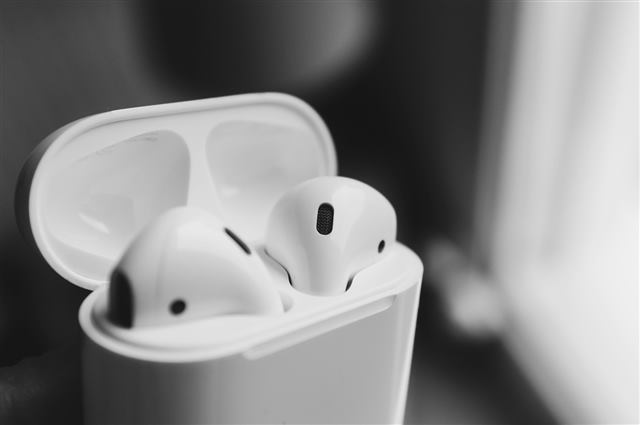
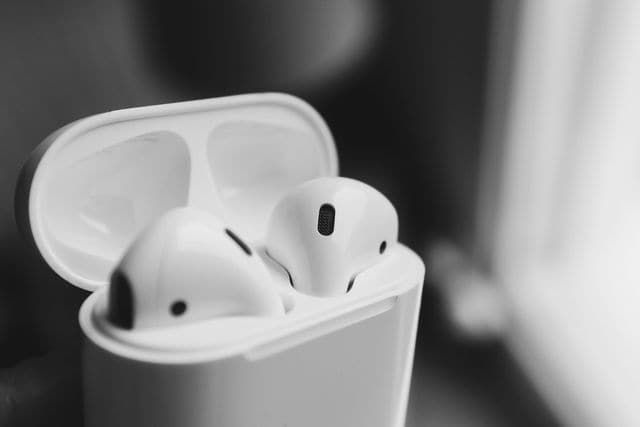
Phone-repair imagery per repair type, workshop photo, precision close-up, consistent product shots; contained hero; WebP

diff --git a/index.html b/index.html
@@ -10,8 +10,8 @@
 <meta property="og:description" content="Phone, tablet and laptop repairs in Gore. Free diagnosis and a clear quote before any repair begins.">
 <link rel="icon" href="assets/icon-512.png" type="image/png">
 <link rel="apple-touch-icon" href="assets/icon-512.png">
-<link rel="preload" as="image" href="assets/img3/herobg-900.jpg" imagesrcset="assets/img3/herobg-900.jpg 900w, assets/img3/herobg-1600.jpg 1600w" imagesizes="100vw" fetchpriority="high">
-<link rel="stylesheet" href="style.css?v=muz8i92z">
+<link rel="preload" as="image" type="image/webp" imagesrcset="assets/img3/hero-900.webp 900w, assets/img3/hero-1600.webp 1600w" imagesizes="(min-width: 1240px) 1200px, calc(100vw - 40px)" fetchpriority="high">
+<link rel="stylesheet" href="style.css?v=muz96r61">
 <script>document.documentElement.classList.add('js');setTimeout(function(){if(!window.__mw)document.documentElement.classList.remove('js')},3500)</script>
 </head>
 <body>
@@ -38,21 +38,23 @@
 
 <!-- 1. HERO -->
 <section class="hero">
- <img class="hero-bg" src="assets/img3/herobg-1600.jpg" srcset="assets/img3/herobg-900.jpg 900w, assets/img3/herobg-1600.jpg 1600w" sizes="100vw" width="1600" height="1066" alt="A technician repairing a phone with a precision screwdriver" fetchpriority="high">
- <div class="wrap hero-in">
-  <div class="hero-text">
-   <p class="eyebrow rv">Mobile World Gore</p>
-   <h1 class="rv d1">Expert device repair, right here in&nbsp;Gore.</h1>
-   <p class="lede rv d2">Phone, tablet and laptop repairs, with free diagnosis and a clear quote before any repair begins.</p>
-   <p class="actions rv d3">
-    <a class="btn" href="#visit">Get a free diagnosis</a>
-    <a class="btn btn-line btn-line-light" href="https://www.google.com/maps/dir/?api=1&destination=57+Main+Street,+Gore,+New+Zealand" target="_blank" rel="noopener">Get directions</a>
-   </p>
-   <ul class="facts rv d4">
-    <li><strong>Free diagnosis</strong><span>We find the fault before any work starts</span></li>
-    <li><strong>Same-day</strong><span>repairs on most common jobs</span></li>
-    <li><strong>No appointment</strong><span>Just walk in at 57 Main Street</span></li>
-   </ul>
+ <div class="wrap">
+  <div class="hero-panel">
+   <picture><source type="image/webp" srcset="assets/img3/hero-900.webp 900w, assets/img3/hero-1600.webp 1600w" sizes="(min-width: 1240px) 1200px, calc(100vw - 40px)"><img class="hero-bg" src="assets/img3/hero-1600.jpg" srcset="assets/img3/hero-900.jpg 900w, assets/img3/hero-1600.jpg 1600w" sizes="(min-width: 1240px) 1200px, calc(100vw - 40px)" width="1600" height="1067" alt="Technician repairing a smartphone with a precision screwdriver" fetchpriority="high"></picture>
+   <div class="hero-text">
+    <p class="eyebrow rv">Mobile World Gore</p>
+    <h1 class="rv d1">Expert device repair, right here in&nbsp;Gore.</h1>
+    <p class="lede rv d2">Phone, tablet and laptop repairs, with free diagnosis and a clear quote before any repair begins.</p>
+    <p class="actions rv d3">
+     <a class="btn" href="#visit">Get a free diagnosis</a>
+     <a class="btn btn-line btn-line-light" href="https://www.google.com/maps/dir/?api=1&destination=57+Main+Street,+Gore,+New+Zealand" target="_blank" rel="noopener">Get directions</a>
+    </p>
+    <ul class="facts rv d4">
+     <li><strong>Free diagnosis</strong><span>We find the fault before any work starts</span></li>
+     <li><strong>Same-day</strong><span>repairs on most common jobs</span></li>
+     <li><strong>No appointment</strong><span>Just walk in at 57 Main Street</span></li>
+    </ul>
+   </div>
   </div>
  </div>
 </section>
@@ -76,7 +78,7 @@
      <h2 class="rv">Repairs made simple.</h2>
      <p class="big rv d1">Bring your device in. We’ll find out what’s wrong, explain your options and give you a clear quote before any repair begins.</p>
     </div>
-    <img class="simple-img rv d2" src="assets/img3/laptop-s-480.jpg" srcset="assets/img3/laptop-s-480.jpg 480w, assets/img3/laptop-s-800.jpg 800w" sizes="(min-width: 900px) 470px, calc(100vw - 40px)" width="800" height="533" alt="A technician repairing a laptop" loading="lazy">
+    <picture><source type="image/webp" srcset="assets/img3/workshop-480.webp 480w, assets/img3/workshop-800.webp 800w" sizes="(min-width: 900px) 470px, calc(100vw - 40px)"><img class="simple-img rv d2" src="assets/img3/workshop-480.jpg" srcset="assets/img3/workshop-480.jpg 480w, assets/img3/workshop-800.jpg 800w" sizes="(min-width: 900px) 470px, calc(100vw - 40px)" width="800" height="533" alt="A technician repairing a smartphone at a workbench" loading="lazy"></picture>
    </div>
    <ul class="simple-points">
     <li class="rv"><strong>Free diagnosis</strong><span>Know what’s wrong before you decide anything.</span></li>
@@ -94,15 +96,15 @@
   <h2 class="sec-title rv d1">What we repair.</h2>
   <div class="devices">
    <article class="device rv">
-    <h3>Smartphones</h3>
+    <h3><svg class="dev-ic" viewBox="0 0 24 24" aria-hidden="true"><rect x="7" y="2.5" width="10" height="19" rx="2.4"/><path d="M10.5 18.5h3"/></svg><span>Smartphones</span></h3>
     <ul><li>Screens</li><li>Batteries</li><li>Charging</li><li>Water damage</li></ul>
    </article>
    <article class="device rv">
-    <h3>Tablets &amp; iPads</h3>
+    <h3><svg class="dev-ic" viewBox="0 0 24 24" aria-hidden="true"><rect x="4" y="2.5" width="16" height="19" rx="2.4"/><path d="M11 18.5h2"/></svg><span>Tablets &amp; iPads</span></h3>
     <ul><li>Displays</li><li>Batteries</li><li>Charging</li><li>Software</li></ul>
    </article>
    <article class="device rv">
-    <h3>Laptops &amp; Ultrabooks</h3>
+    <h3><svg class="dev-ic" viewBox="0 0 24 24" aria-hidden="true"><rect x="4.5" y="4.5" width="15" height="10.5" rx="1.6"/><path d="M2.5 18.5h19l-1.4 1.6H3.9z"/></svg><span>Laptops &amp; Ultrabooks</span></h3>
     <ul><li>Hardware</li><li>Software</li><li>Performance</li></ul>
    </article>
   </div>
@@ -114,13 +116,13 @@
  <div class="wrap">
   <p class="eyebrow rv">Common repairs</p>
   <h2 class="sec-title rv d1">Repairs we handle every day.</h2>
-  <ol class="problems">
-   <li class="rv"><span class="no">01</span><h3>Cracked screen</h3><p>Broken glass, display issues or touch problems.</p></li>
-   <li class="rv d1"><span class="no">02</span><h3>Battery</h3><p>Fast drain, poor battery life or unexpected shutdowns.</p></li>
-   <li class="rv d2"><span class="no">03</span><h3>Charging</h3><p>Charging port, cable connection or charging problems.</p></li>
-   <li class="rv"><span class="no">04</span><h3>Water damage</h3><p>We’ll assess the device and explain what can be done.</p></li>
-   <li class="rv d1"><span class="no">05</span><h3>Audio</h3><p>Speaker, microphone and sound issues.</p></li>
-   <li class="rv d2"><span class="no">06</span><h3>Software</h3><p>Slow, frozen or glitchy? We’ll find the cause.</p></li>
+  <ol class="problems problems-img">
+   <li class="rv "><picture><source type="image/webp" srcset="assets/img3/rep-screen-160.webp 160w, assets/img3/rep-screen-320.webp 320w" sizes="(min-width: 701px) 76px, 64px"><img src="assets/img3/rep-screen-160.jpg" srcset="assets/img3/rep-screen-160.jpg 160w, assets/img3/rep-screen-320.jpg 320w" sizes="(min-width: 701px) 76px, 64px" width="320" height="320" alt="A phone with a cracked screen" loading="lazy"></picture><div class="pb"><span class="no">01</span><h3>Cracked screen</h3><p>Broken glass, display issues or touch problems.</p></div></li>
+   <li class="rv d1"><picture><source type="image/webp" srcset="assets/img3/rep-battery-160.webp 160w, assets/img3/rep-battery-320.webp 320w" sizes="(min-width: 701px) 76px, 64px"><img src="assets/img3/rep-battery-160.jpg" srcset="assets/img3/rep-battery-160.jpg 160w, assets/img3/rep-battery-320.jpg 320w" sizes="(min-width: 701px) 76px, 64px" width="320" height="320" alt="A phone battery replacement" loading="lazy"></picture><div class="pb"><span class="no">02</span><h3>Battery</h3><p>Fast drain, poor battery life or unexpected shutdowns.</p></div></li>
+   <li class="rv d2"><picture><source type="image/webp" srcset="assets/img3/rep-charging-160.webp 160w, assets/img3/rep-charging-320.webp 320w" sizes="(min-width: 701px) 76px, 64px"><img src="assets/img3/rep-charging-160.jpg" srcset="assets/img3/rep-charging-160.jpg 160w, assets/img3/rep-charging-320.jpg 320w" sizes="(min-width: 701px) 76px, 64px" width="320" height="320" alt="A phone charging port and cable" loading="lazy"></picture><div class="pb"><span class="no">03</span><h3>Charging</h3><p>Charging port, cable connection or charging problems.</p></div></li>
+   <li class="rv "><picture><source type="image/webp" srcset="assets/img3/rep-water-160.webp 160w, assets/img3/rep-water-320.webp 320w" sizes="(min-width: 701px) 76px, 64px"><img src="assets/img3/rep-water-160.jpg" srcset="assets/img3/rep-water-160.jpg 160w, assets/img3/rep-water-320.jpg 320w" sizes="(min-width: 701px) 76px, 64px" width="320" height="320" alt="A wet, water-damaged phone" loading="lazy"></picture><div class="pb"><span class="no">04</span><h3>Water damage</h3><p>We’ll assess the device and explain what can be done.</p></div></li>
+   <li class="rv d1"><picture><source type="image/webp" srcset="assets/img3/rep-audio-160.webp 160w, assets/img3/rep-audio-320.webp 320w" sizes="(min-width: 701px) 76px, 64px"><img src="assets/img3/rep-audio-160.jpg" srcset="assets/img3/rep-audio-160.jpg 160w, assets/img3/rep-audio-320.jpg 320w" sizes="(min-width: 701px) 76px, 64px" width="320" height="320" alt="A phone speaker and microphone" loading="lazy"></picture><div class="pb"><span class="no">05</span><h3>Audio</h3><p>Speaker, microphone and sound issues.</p></div></li>
+   <li class="rv d2"><picture><source type="image/webp" srcset="assets/img3/rep-software-160.webp 160w, assets/img3/rep-software-320.webp 320w" sizes="(min-width: 701px) 76px, 64px"><img src="assets/img3/rep-software-160.jpg" srcset="assets/img3/rep-software-160.jpg 160w, assets/img3/rep-software-320.jpg 320w" sizes="(min-width: 701px) 76px, 64px" width="320" height="320" alt="A phone software update screen" loading="lazy"></picture><div class="pb"><span class="no">06</span><h3>Software</h3><p>Slow, frozen or glitchy? We’ll find the cause.</p></div></li>
   </ol>
   <p class="note rv">Not sure what’s wrong? <a class="more" href="#visit">Bring it in for a free diagnosis</a></p>
  </div>
@@ -128,7 +130,6 @@
 
 <!-- 5. BRAND STATEMENT -->
 <section class="statement">
- <img class="bg-img" src="assets/img3/moodbg-1600.jpg" srcset="assets/img3/moodbg-900.jpg 900w, assets/img3/moodbg-1600.jpg 1600w" sizes="100vw" width="900" height="1350" alt="" loading="lazy">
  <div class="wrap narrow st-in">
   <h2 class="rv">Your device is part of your <span>everyday life.</span></h2>
   <p class="big rv d1">We know how important it is to have your phone, tablet or laptop working when you need it. That’s why we keep the process simple: diagnose the problem, explain the options, and let you decide.</p>
@@ -144,7 +145,7 @@
     <p class="eyebrow rv">How it works</p>
     <h2 class="sec-title rv d1">From broken to ready.</h2>
    </div>
-   <img class="process-img rv d2" src="assets/img3/battery-480.jpg" srcset="assets/img3/battery-480.jpg 480w, assets/img3/battery-800.jpg 800w" sizes="(min-width: 900px) 420px, calc(100vw - 40px)" width="800" height="533" alt="Hands working on a phone’s internal components" loading="lazy">
+   <picture><source type="image/webp" srcset="assets/img3/process-480.webp 480w, assets/img3/process-800.webp 800w" sizes="(min-width: 900px) 420px, calc(100vw - 40px)"><img class="process-img rv d2" src="assets/img3/process-480.jpg" srcset="assets/img3/process-480.jpg 480w, assets/img3/process-800.jpg 800w" sizes="(min-width: 900px) 420px, calc(100vw - 40px)" width="800" height="533" alt="Hands repairing a smartphone logic board" loading="lazy"></picture>
   </div>
   <ol class="steps">
    <li class="rv"><span class="n">01</span><h3>Diagnose</h3><p>Walk in and we’ll find the fault. It’s free.</p></li>
@@ -162,7 +163,7 @@
    <p class="eyebrow rv">Why choose us</p>
    <h2 class="rv d1">No guesswork. Just clear answers.</h2>
    <p class="big rv d2">We diagnose the problem first, explain your options and give you a clear quote before any repair begins. You decide whether to go ahead.</p>
-   <img class="why-img rv d2" src="assets/img3/tech-480.jpg" srcset="assets/img3/tech-480.jpg 480w, assets/img3/tech-840.jpg 840w" sizes="(min-width: 900px) 380px, calc(100vw - 40px)" width="480" height="720" alt="A repair technician at his workbench" loading="lazy">
+   <picture><source type="image/webp" srcset="assets/img3/why-480.webp 480w, assets/img3/why-800.webp 800w" sizes="(min-width: 900px) 380px, calc(100vw - 40px)"><img class="why-img rv d2" src="assets/img3/why-480.jpg" srcset="assets/img3/why-480.jpg 480w, assets/img3/why-800.jpg 800w" sizes="(min-width: 900px) 380px, calc(100vw - 40px)" width="800" height="1000" alt="Tweezers placing a tiny component on a smartphone logic board" loading="lazy"></picture>
   </div>
   <ul class="why-list">
    <li class="rv"><span class="no">01</span><div><h3>Free diagnosis</h3><p>Understand what’s wrong before deciding.</p></div></li>
@@ -182,12 +183,12 @@
   <h2 class="sec-title rv d1">Accessories.</h2>
   <p class="sec-lede rv d1">Cases, cables and audio, matched to your device.</p>
   <ul class="gear">
-   <li class="rv"><img src="assets/img3/cases-320.jpg" srcset="assets/img3/cases-320.jpg 320w, assets/img3/cases-640.jpg 640w" sizes="(min-width: 900px) 360px, 45vw" width="640" height="427" alt="Phone cases" loading="lazy"><h3>Cases</h3><p>Slim, rugged and wallet styles.</p></li>
-   <li class="rv d1"><img src="assets/img3/cable-320.jpg" srcset="assets/img3/cable-320.jpg 320w, assets/img3/cable-640.jpg 640w" sizes="(min-width: 900px) 360px, 45vw" width="640" height="427" alt="Charging cable" loading="lazy"><h3>Charging cables</h3><p>USB-C, Lightning and micro-USB.</p></li>
-   <li class="rv d2"><img src="assets/img3/headphones-320.jpg" srcset="assets/img3/headphones-320.jpg 320w, assets/img3/headphones-640.jpg 640w" sizes="(min-width: 900px) 360px, 45vw" width="640" height="427" alt="Over-ear headphones" loading="lazy"><h3>Headphones</h3><p>Over-ear sound for home, study and travel.</p></li>
-   <li class="rv"><img src="assets/img3/earbuds-320.jpg" srcset="assets/img3/earbuds-320.jpg 320w, assets/img3/earbuds-640.jpg 640w" sizes="(min-width: 900px) 360px, 45vw" width="640" height="427" alt="Wireless earbuds in a case" loading="lazy"><h3>Earbuds</h3><p>Wireless and wired, for calls and music.</p></li>
-   <li class="rv d1"><img src="assets/img3/speaker-320.jpg" srcset="assets/img3/speaker-320.jpg 320w, assets/img3/speaker-640.jpg 640w" sizes="(min-width: 900px) 360px, 45vw" width="640" height="427" alt="Bluetooth speaker" loading="lazy"><h3>Bluetooth speakers</h3><p>Portable sound that goes where you do.</p></li>
-   <li class="rv d2"><img src="assets/img3/watch-320.jpg" srcset="assets/img3/watch-320.jpg 320w, assets/img3/watch-640.jpg 640w" sizes="(min-width: 900px) 360px, 45vw" width="640" height="427" alt="Smart watch on a wrist" loading="lazy"><h3>Smart watches</h3><p>Wearable tech for everyday use.</p></li>
+   <li class="rv"><picture><source type="image/webp" srcset="assets/img3/cases-320.webp 320w, assets/img3/cases-640.webp 640w" sizes="(min-width: 900px) 360px, 45vw"><img src="assets/img3/cases-320.jpg" srcset="assets/img3/cases-320.jpg 320w, assets/img3/cases-640.jpg 640w" sizes="(min-width: 900px) 360px, 45vw" width="640" height="427" alt="Phone cases" loading="lazy"></picture><h3>Cases</h3><p>Slim, rugged and wallet styles.</p></li>
+   <li class="rv d1"><picture><source type="image/webp" srcset="assets/img3/cable-320.webp 320w, assets/img3/cable-640.webp 640w" sizes="(min-width: 900px) 360px, 45vw"><img src="assets/img3/cable-320.jpg" srcset="assets/img3/cable-320.jpg 320w, assets/img3/cable-640.jpg 640w" sizes="(min-width: 900px) 360px, 45vw" width="640" height="427" alt="Charging cable" loading="lazy"></picture><h3>Charging cables</h3><p>USB-C, Lightning and micro-USB.</p></li>
+   <li class="rv d2"><picture><source type="image/webp" srcset="assets/img3/headphones-320.webp 320w, assets/img3/headphones-640.webp 640w" sizes="(min-width: 900px) 360px, 45vw"><img src="assets/img3/headphones-320.jpg" srcset="assets/img3/headphones-320.jpg 320w, assets/img3/headphones-640.jpg 640w" sizes="(min-width: 900px) 360px, 45vw" width="640" height="427" alt="Over-ear headphones" loading="lazy"></picture><h3>Headphones</h3><p>Over-ear sound for home, study and travel.</p></li>
+   <li class="rv"><picture><source type="image/webp" srcset="assets/img3/earbuds-320.webp 320w, assets/img3/earbuds-640.webp 640w" sizes="(min-width: 900px) 360px, 45vw"><img src="assets/img3/earbuds-320.jpg" srcset="assets/img3/earbuds-320.jpg 320w, assets/img3/earbuds-640.jpg 640w" sizes="(min-width: 900px) 360px, 45vw" width="640" height="427" alt="Wireless earbuds in a case" loading="lazy"></picture><h3>Earbuds</h3><p>Wireless and wired, for calls and music.</p></li>
+   <li class="rv d1"><picture><source type="image/webp" srcset="assets/img3/speaker-320.webp 320w, assets/img3/speaker-640.webp 640w" sizes="(min-width: 900px) 360px, 45vw"><img src="assets/img3/speaker-320.jpg" srcset="assets/img3/speaker-320.jpg 320w, assets/img3/speaker-640.jpg 640w" sizes="(min-width: 900px) 360px, 45vw" width="640" height="427" alt="A black portable Bluetooth speaker" loading="lazy"></picture><h3>Bluetooth speakers</h3><p>Portable sound that goes where you do.</p></li>
+   <li class="rv d2"><picture><source type="image/webp" srcset="assets/img3/watch-320.webp 320w, assets/img3/watch-640.webp 640w" sizes="(min-width: 900px) 360px, 45vw"><img src="assets/img3/watch-320.jpg" srcset="assets/img3/watch-320.jpg 320w, assets/img3/watch-640.jpg 640w" sizes="(min-width: 900px) 360px, 45vw" width="640" height="427" alt="A black smartwatch" loading="lazy"></picture><h3>Smart watches</h3><p>Wearable tech for everyday use.</p></li>
   </ul>
  </div>
 </section>
@@ -256,7 +257,6 @@
 
 <!-- 12. FINAL CTA -->
 <section class="cta">
- <img class="bg-img" src="assets/img3/ctabg-1600.jpg" srcset="assets/img3/ctabg-900.jpg 900w, assets/img3/ctabg-1600.jpg 1600w" sizes="100vw" width="1600" height="1200" alt="" loading="lazy">
  <div class="wrap narrow cta-in">
   <h2 class="rv">Need a repair?</h2>
   <p class="big rv d1">Bring your device in.<br>We’ll take a look.</p>
@@ -282,6 +282,6 @@
  </div>
 </footer>
 
-<script src="script.js?v=muz8i92z"></script>
+<script src="script.js?v=muz96r61"></script>
 </body>
 </html>

diff --git a/style.css b/style.css
@@ -347,3 +347,76 @@ h1,h2,h3{font-weight:600;letter-spacing:-.03em;line-height:1.07;text-wrap:balanc
 }
 .statement::before{background:linear-gradient(180deg,rgba(10,10,12,.8),rgba(10,10,12,.76))}
 .statement h2 span{color:#d1d1d6}
+
+/* repairs we handle every day — with controlled photos */
+.problems-img li{padding:0 0 30px;border-top:0;border-radius:0}
+.problems-img li:hover{background:transparent;box-shadow:none}
+.problems-img{row-gap:44px}
+.problems-img img{width:100%;aspect-ratio:3/2;object-fit:cover;border-radius:18px;background:#e8e8ed;transition:transform .6s var(--ease)}
+.problems-img li{overflow:visible}
+.problems-img li:hover img{transform:scale(1.02)}
+.problems-img .pb{border-top:1px solid var(--ink);margin-top:22px;padding-top:18px;display:grid;grid-template-columns:auto 1fr;column-gap:16px;align-items:baseline}
+.problems-img .no{font-size:1rem;margin:0;color:var(--red-ink);grid-row:span 2}
+.problems-img li:hover .no{color:var(--red)}
+.problems-img h3{font-size:1.4375rem;margin-bottom:6px}
+@media(max-width:700px){
+ .problems-img{row-gap:0}
+ .problems-img li{display:grid;grid-template-columns:96px 1fr;column-gap:16px;align-items:center;padding:18px 0;border-top:1px solid var(--line)}
+ .problems-img li:last-child{border-bottom:1px solid var(--line)}
+ .problems-img img{width:96px;height:96px;aspect-ratio:1;border-radius:14px}
+ .problems-img .pb{border-top:0;margin:0;padding:0;grid-template-columns:1fr}
+ .problems-img .no{grid-row:auto;font-size:.8125rem;margin-bottom:2px}
+ .problems-img h3{font-size:1.1875rem;margin-bottom:2px}
+ .problems-img p{font-size:.9375rem}
+}
+
+/* ===== imagery pass ===== */
+picture{display:contents}
+
+/* hero: contained rounded panel, photo inside, text on the photo */
+.hero{background:#fff;color:#fff;min-height:0;display:block;overflow:visible;isolation:auto;padding:calc(52px + 20px) 0 clamp(24px,4vw,44px)}
+.hero::before{display:none}
+.hero-panel{position:relative;isolation:isolate;overflow:hidden;border-radius:28px;background:#111;min-height:clamp(520px,64vh,640px);display:flex;align-items:center;padding:clamp(40px,6vw,76px)}
+.hero-panel::before{content:"";position:absolute;inset:0;z-index:-1;background:linear-gradient(90deg,rgba(8,8,10,.86) 0%,rgba(8,8,10,.68) 40%,rgba(8,8,10,.24) 76%,rgba(8,8,10,.1) 100%)}
+.hero-bg{z-index:-2}
+.hero-text{max-width:600px}
+
+/* statement + closing CTA: typography only (no full-bleed photos) */
+.statement{background:#fff;color:var(--ink)}
+.statement::before{display:none}
+.statement h2{color:var(--ink)}
+.statement h2 span{color:#86868b}
+.statement .big{color:var(--mut)}
+.statement .more{color:var(--red-ink)}
+.statement :focus-visible{outline-color:var(--red-ink)}
+.cta{background:var(--dark)}
+.cta::before{display:none}
+
+/* what we repair: subtle device icons */
+.device h3{display:flex;align-items:center;gap:16px}
+.dev-ic{width:34px;height:34px;flex:none;fill:none;stroke:var(--red-ink);stroke-width:1.5;stroke-linecap:round;stroke-linejoin:round}
+
+/* common repairs: small square thumbnails, typography stays the focus */
+.problems-img{row-gap:0}
+.problems-img li{display:grid;grid-template-columns:76px 1fr;column-gap:18px;align-items:start;padding:24px 0 30px;border-top:1px solid var(--ink)}
+.problems-img li:last-child{border-bottom:0}
+.problems-img img{width:76px;height:76px;aspect-ratio:1;border-radius:16px;object-fit:cover}
+.problems-img li:hover img{transform:scale(1.04)}
+.problems-img .pb{border:0;margin:0;padding:0;display:block}
+.problems-img .no{display:block;font-size:.875rem;font-weight:600;margin:2px 0 4px;color:var(--red-ink)}
+.problems-img h3{font-size:1.3125rem;margin-bottom:4px}
+
+@media(max-width:700px){
+ .hero{padding:calc(52px + 12px) 0 20px}
+ .hero-panel{border-radius:22px;padding:30px 22px 26px;min-height:0;align-items:flex-start}
+ .hero-panel::before{background:linear-gradient(180deg,rgba(8,8,10,.66) 0%,rgba(8,8,10,.84) 55%,rgba(8,8,10,.93) 100%)}
+ .dev-ic{width:28px;height:28px}
+ .device h3{gap:12px}
+ .problems-img li{grid-template-columns:64px 1fr;column-gap:16px;align-items:center;padding:18px 0;border-top:1px solid var(--line)}
+ .problems-img li:first-child{border-top-color:var(--ink)}
+ .problems-img li:last-child{border-bottom:1px solid var(--line)}
+ .problems-img img{width:64px;height:64px;border-radius:14px}
+ .problems-img .no{font-size:.8125rem;margin:0 0 2px}
+ .problems-img h3{font-size:1.1875rem}
+}
+picture>source{display:none}
